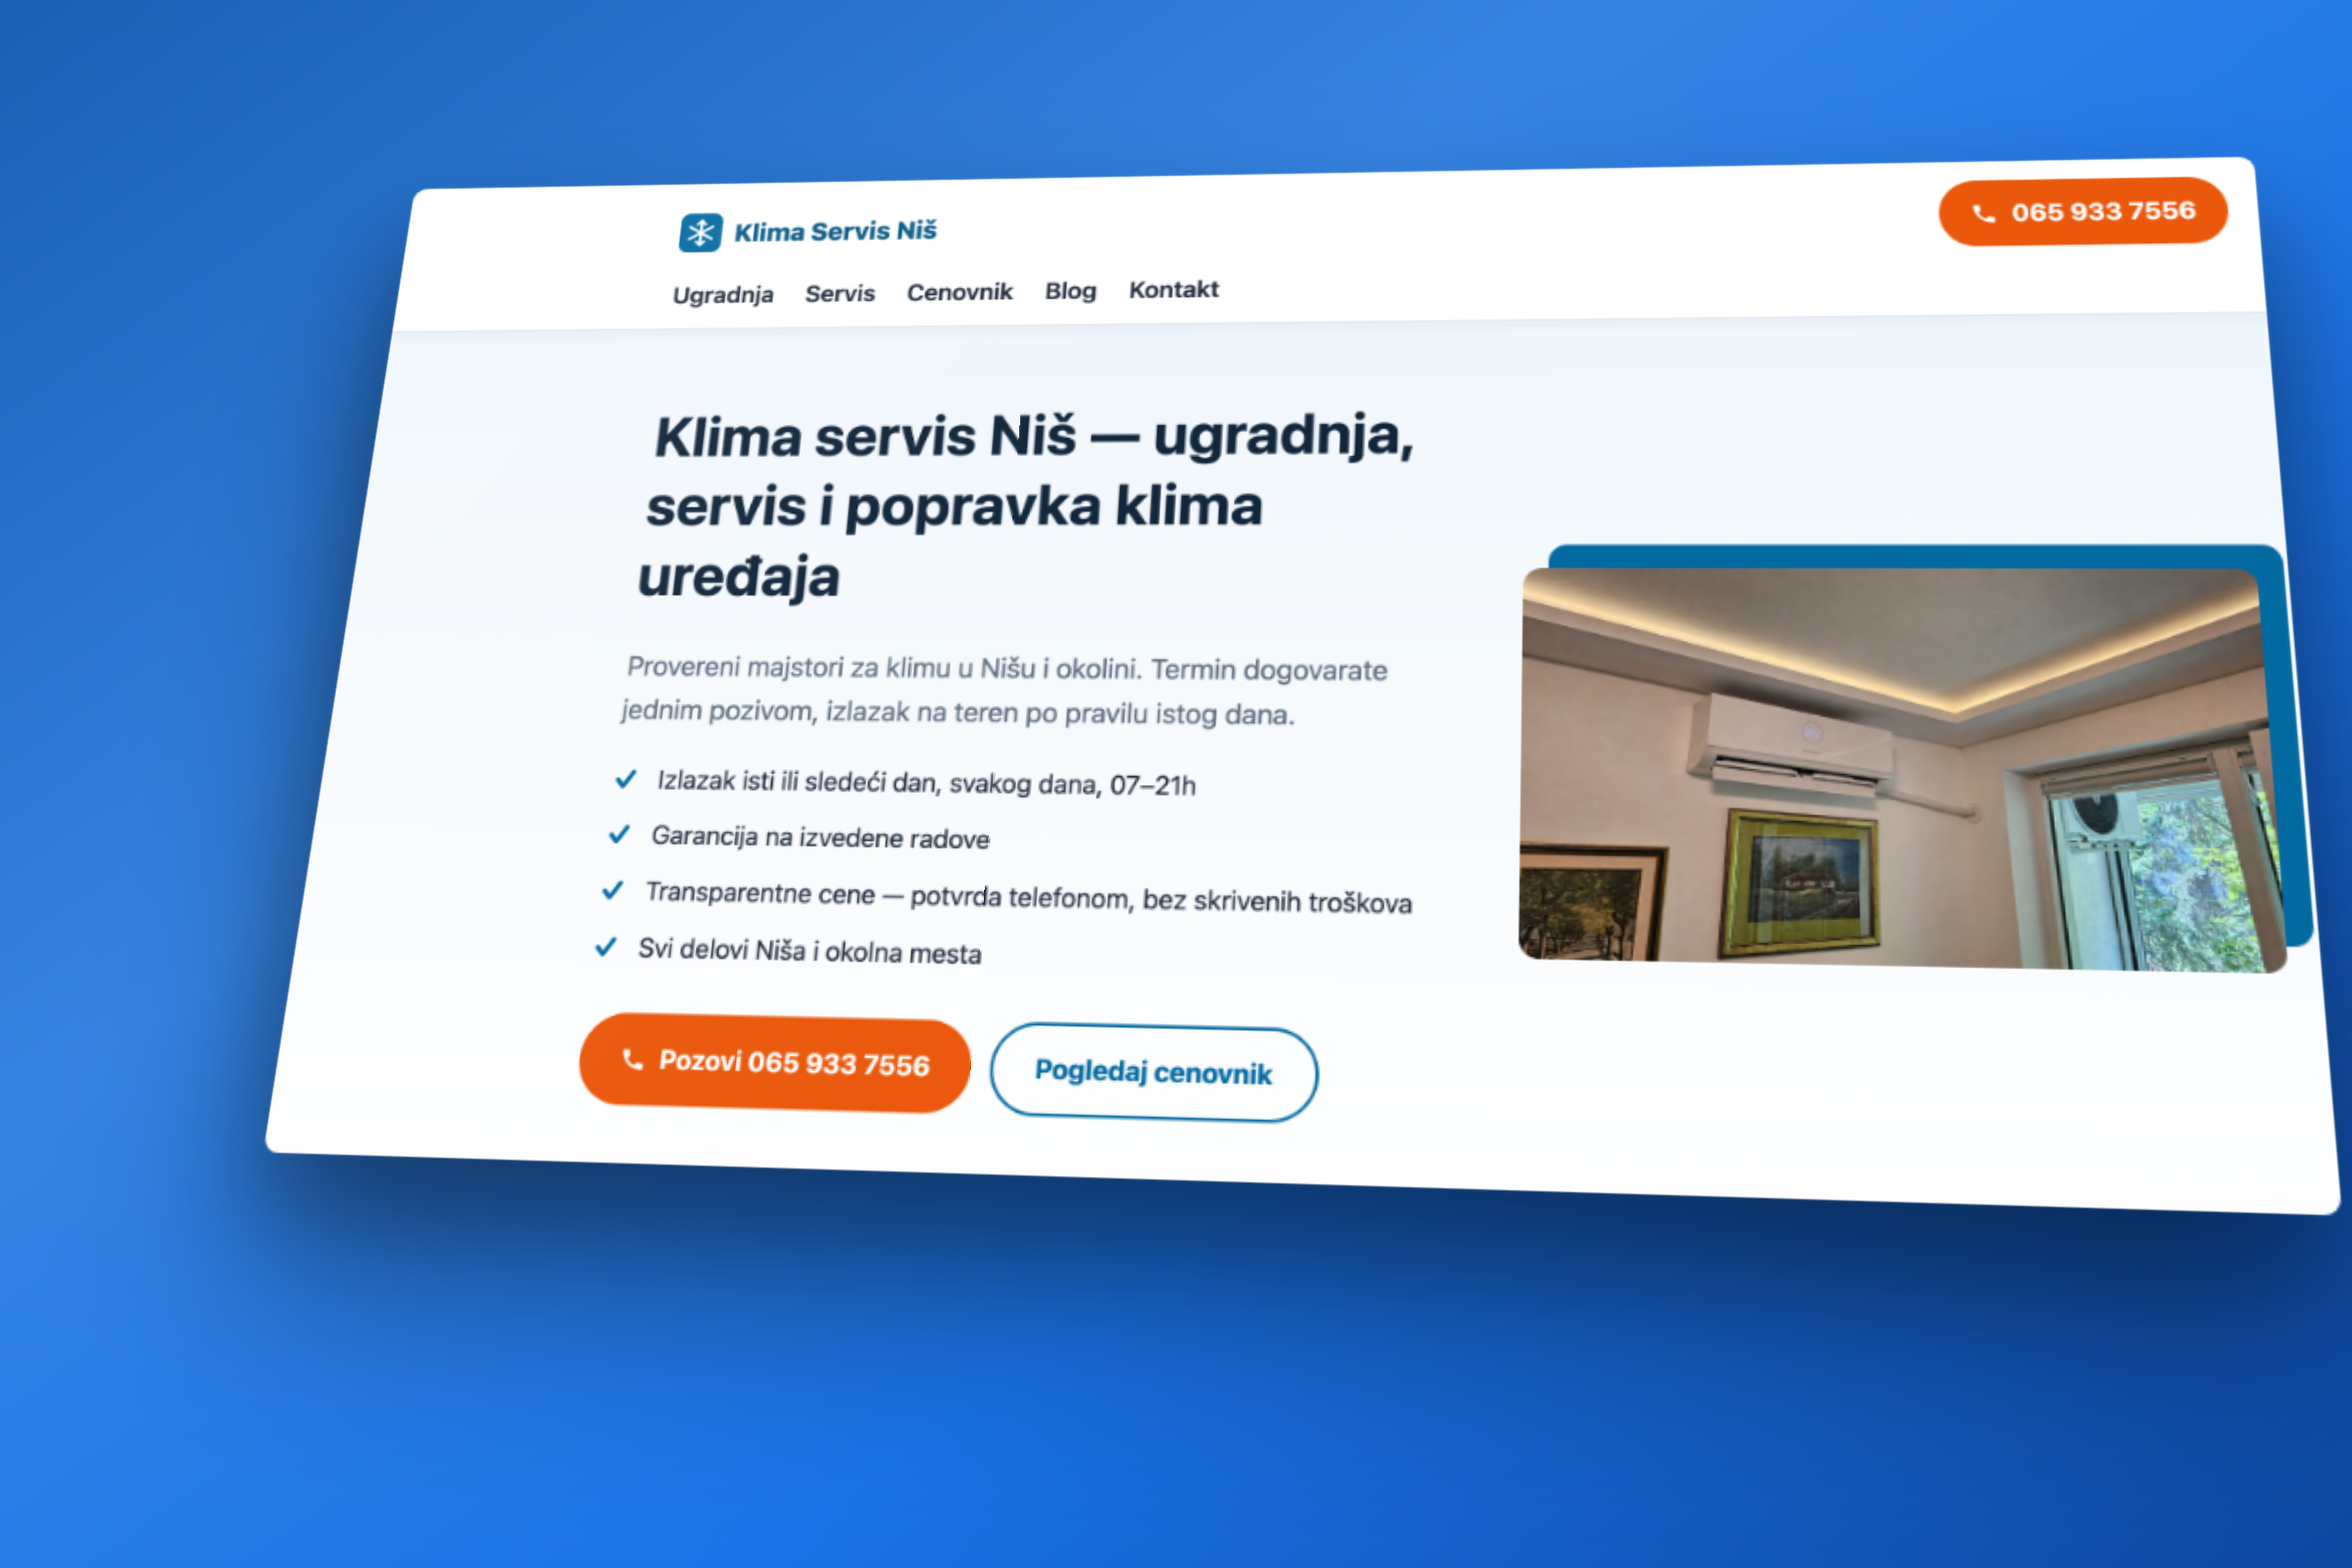
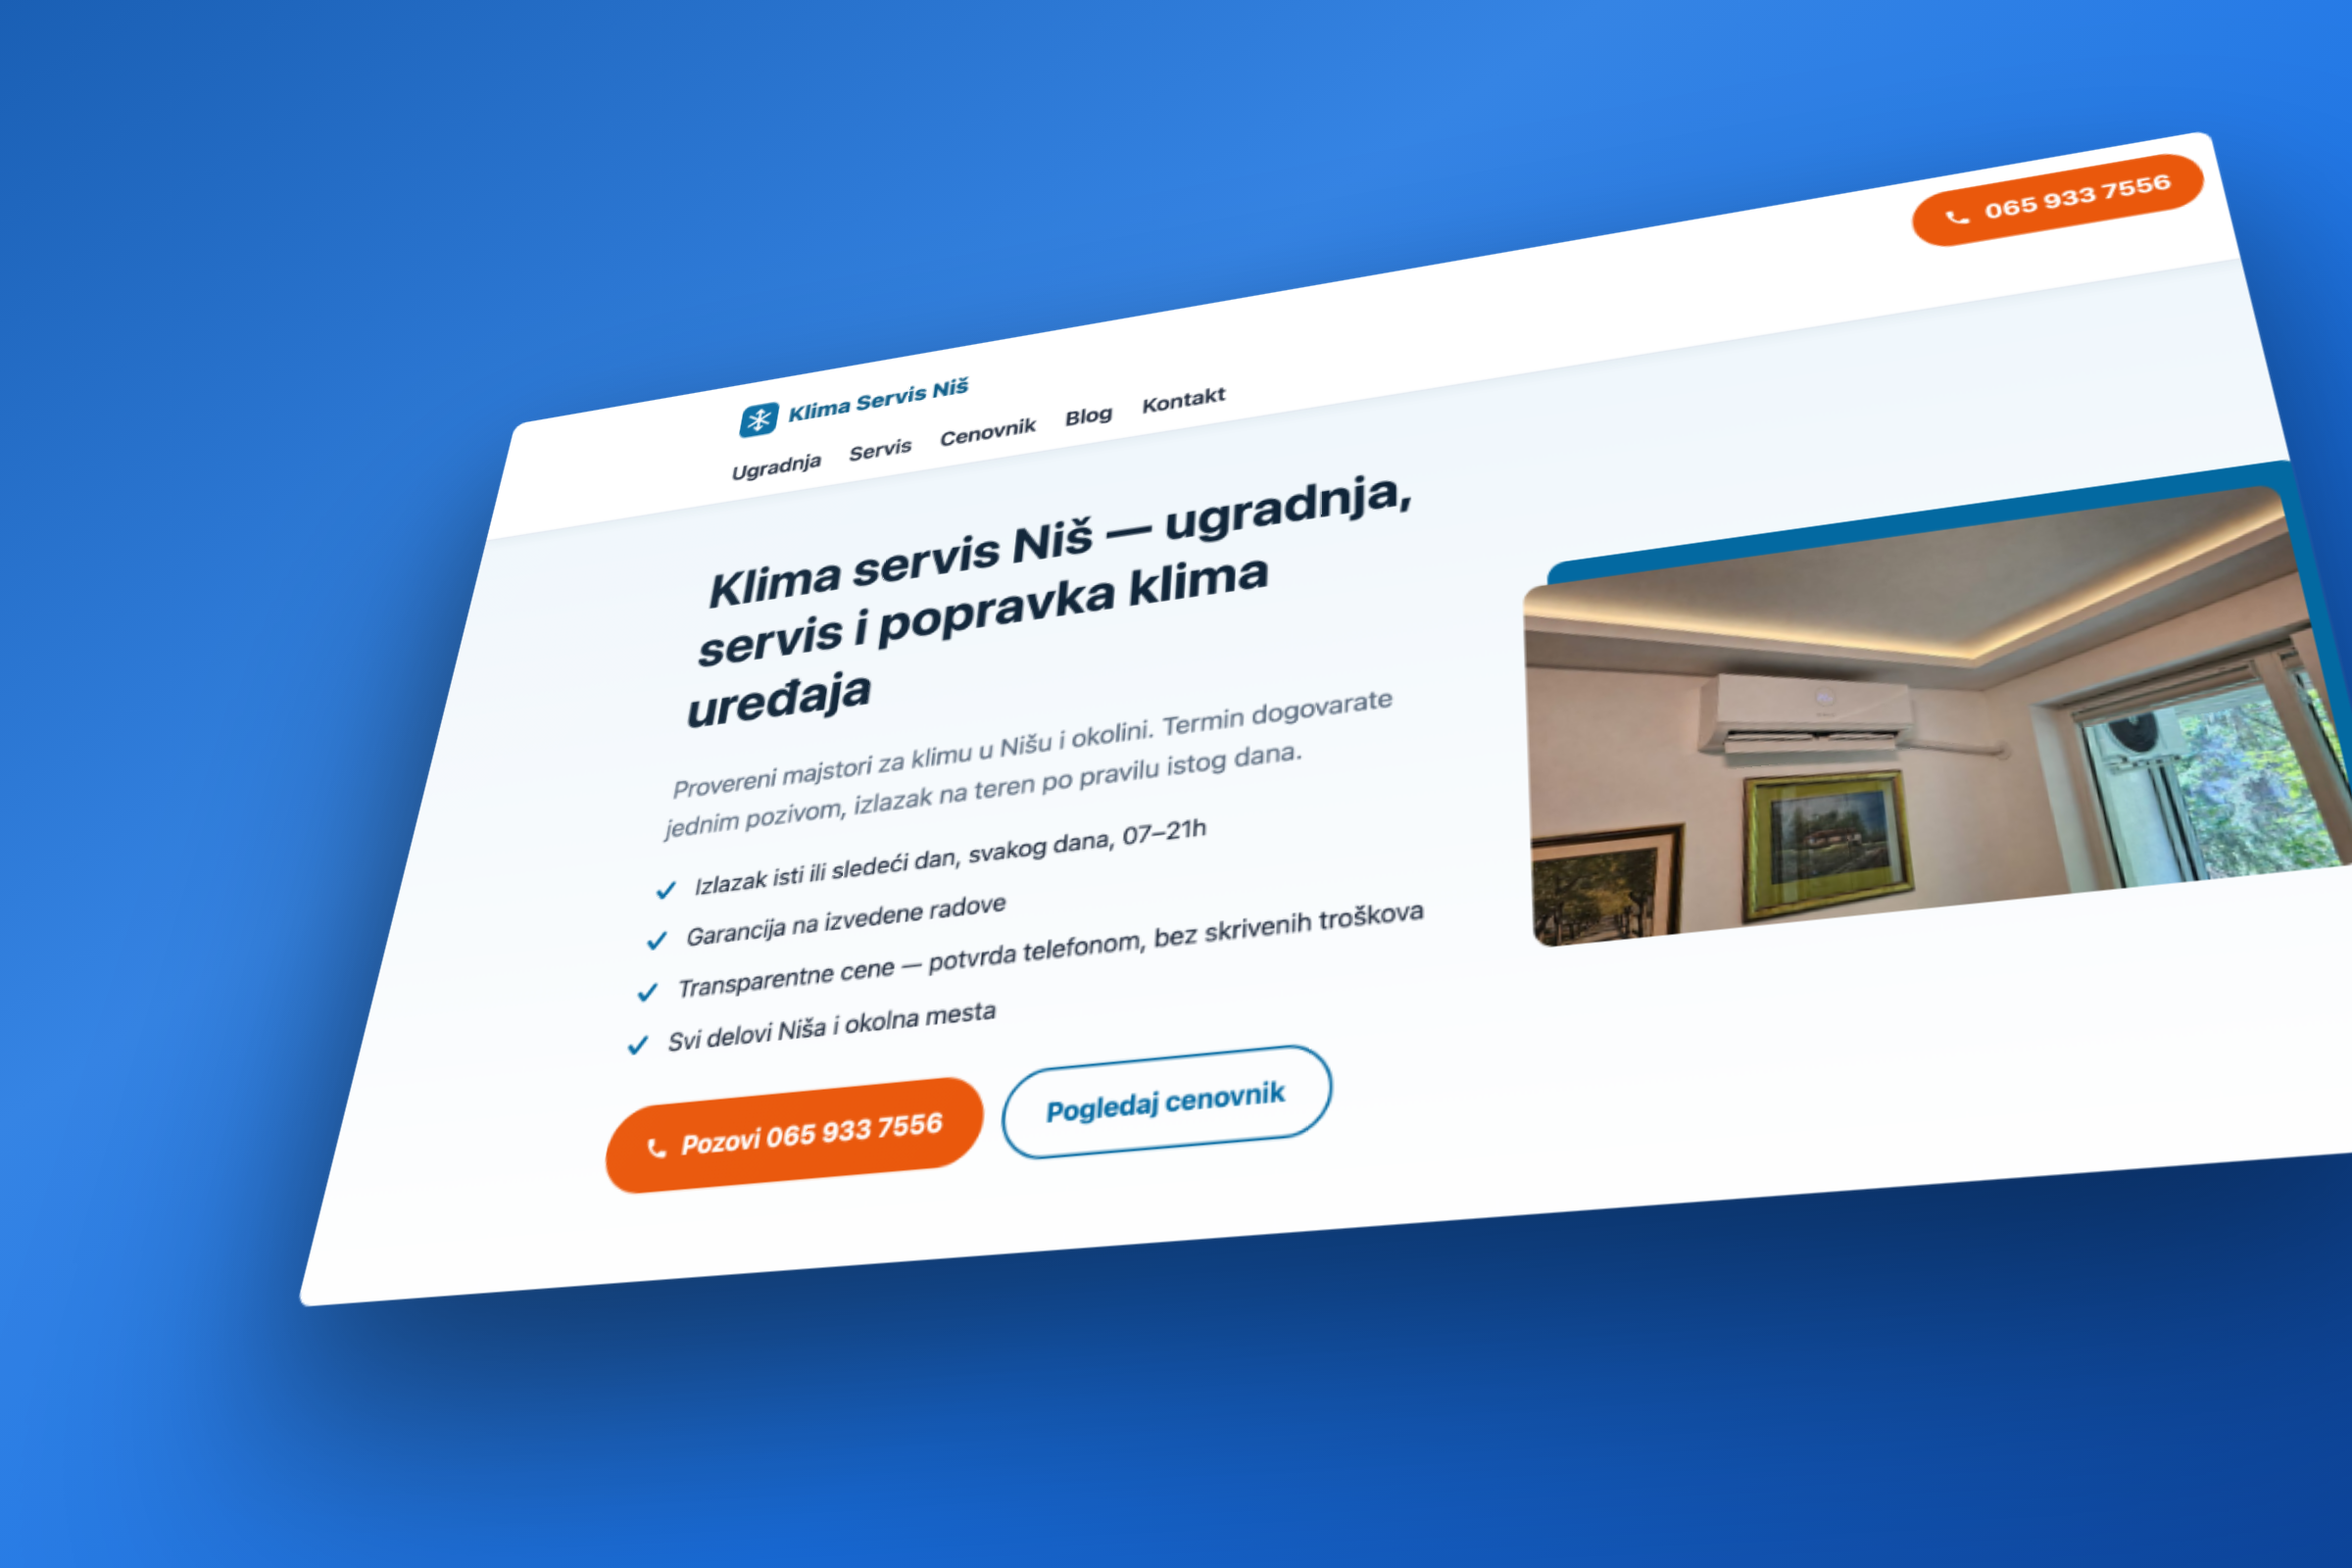
Update showcase mockups with dramatic 3D perspective, fix klima regex
- Regenerated klima-servis-nis.png and moler-nis.png with dramatic
  forward tilt matching Webstack/LYNIQ reference style
- Fixed showcase regex from /klima/i to /klim/i to match Serbian
  genitive 'Klime' in card title

diff --git a/app/HomePage.js b/app/HomePage.js
@@ -67,7 +67,7 @@ const services = [
 
 /** Local mockup overrides for showcase background images. */
 const SHOWCASE_MOCKUPS = [
-  { match: /klima/i, src: "/showcases/klima-servis-nis.png" },
+  { match: /klim/i, src: "/showcases/klima-servis-nis.png" },
   { match: /moler/i, src: "/showcases/moler-nis.png" },
 ];
 function getShowcaseMockup(card) {
